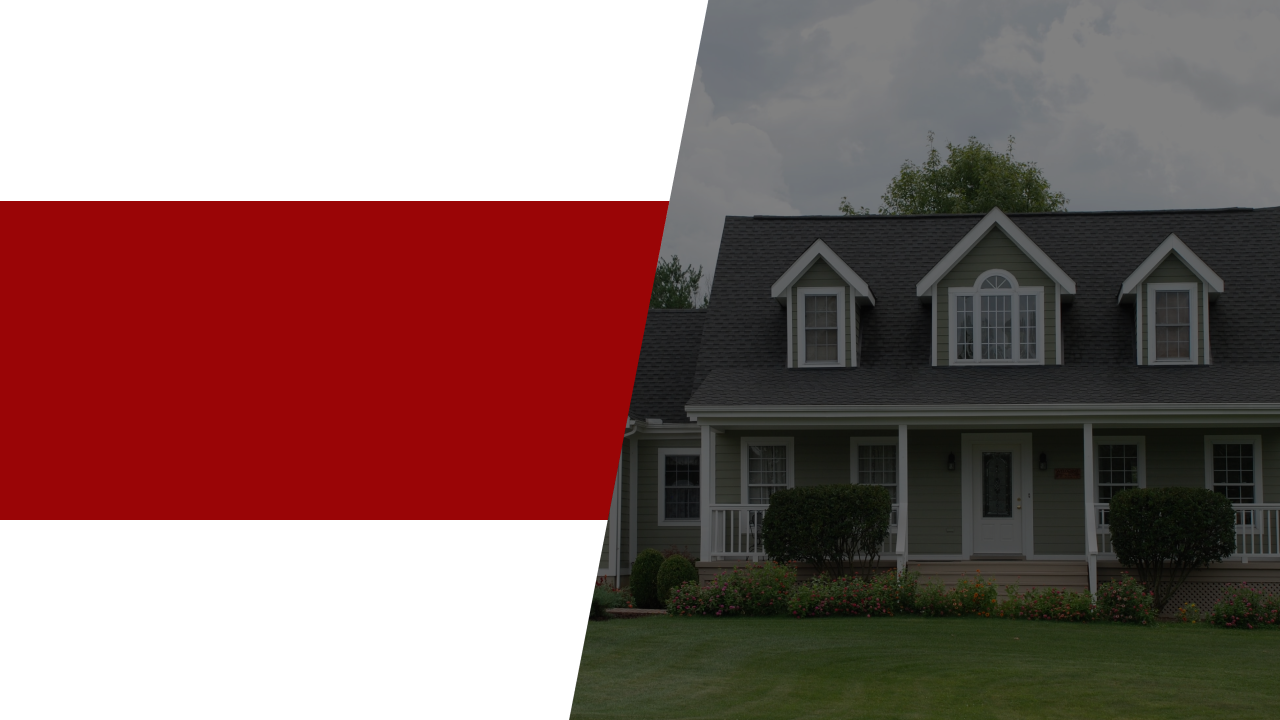
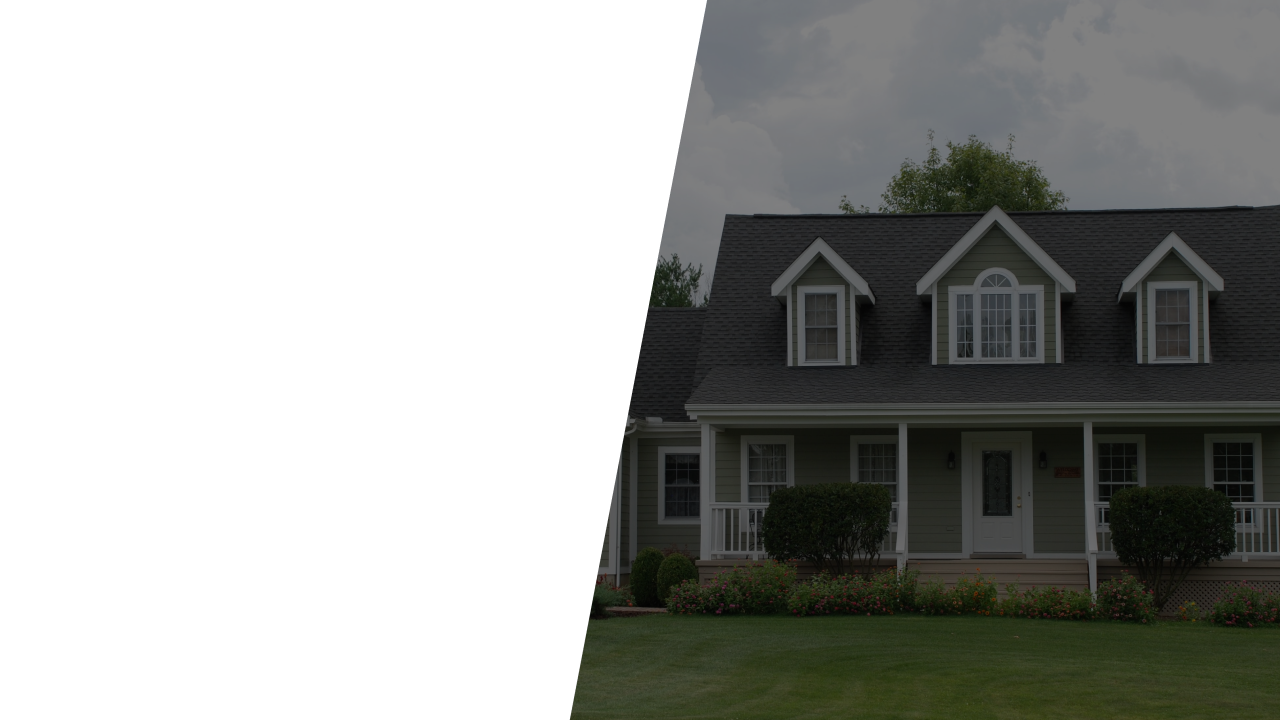
scroll fix, roofing section fix

diff --git a/frontend/src/pages/RoofingSection.jsx b/frontend/src/pages/RoofingSection.jsx
@@ -1,41 +1,71 @@
 import React from 'react'
 import styled from 'styled-components/macro'
-import RoofingBG from '../assets/roofing.png'
+import RoofingBG from '../assets/roofing1.png'
 import { motion } from 'framer-motion'
 
 const Container = styled.div`
-    min-height: 89vh;
+    min-height: 100vh;
     width: 100%;
-    background-image: url(${RoofingBG});
-    background-position: center;
-    background-repeat: no-repeat;
-    background-size: 100%;
 `
 
 const Wrapper = styled.div`
     display: flex;
+    align-items: center;
+    position: relative;
 `
 
 
-const LeftSection = styled.div`
-    flex: 7;
+const BgImage = styled(motion.img)`
+    width: 54.5%;
+    height: 90%;
+    position: absolute;
+    left: 0;
+    bottom: 0;
+
+`
+
+const RedBg = styled(motion.div)`
+    height: 50vh;
+    width: 55%;
+    background-color: var(--red);
+    position: absolute;
+    right: 0;
+    z-index: -5;
+
+    &:after {
+        content: " ";
+        position: absolute;
+        display: block;
+        width: 100%;
+        height: 100%;
+        top: 0;
+        left: 0;
+        z-index: -1;
+        background-color: var(--red);
+        transform-origin: bottom left;
+        -ms-transform: skew(15deg, 0deg);
+        -webkit-transform: skew(15deg, 0deg);
+        transform: skew(15deg, 0deg);
+    }
 `
 
 const RightSection = styled.div`
     flex: 6;
-    min-height: 89vh;
+    min-height: 100vh;
     display: flex;
+    justify-content: flex-end;
     align-items: center;
 `
   
 
 const RightWrapper = styled(motion.div)`
-    flex: 6;
     display: flex;
     flex-direction: column;
     justify-content: center;
-    gap: 10%;
-    height: 86.5%;
+    gap: 4.6rem;
+    width: 45%;
+    padding-right: 2%;
+
 `
 
 const TopSection = styled(motion.div)`
@@ -92,6 +122,37 @@ const ServiceItems = styled.li`
 const RoofingSection = () => {
 
     // VARIANTS
+    const ImageVariants = {
+        hidden: {
+            opacity: 0,
+            x: -300,
+        },
+
+        show: {
+            opacity: 1,
+            x: 0,
+            transition: { 
+                duration: 0.8,
+            }
+        }
+    }
+
+    const RedVariants = {
+        hidden: {
+            opacity: 0,
+            x:300,
+        },
+
+        show: {
+            opacity: 1,
+            x: 0,
+            transition: { 
+                delay: 0.5,
+                duration: 0.8,
+            }
+        }
+    }
+
     const TextContainerVariants = {
         hidden: {
             opacity: 0,
@@ -103,6 +164,7 @@ const RoofingSection = () => {
             x: 0,
             transition: { 
                 duration: 1,
+                delayChildren: 1,
                 staggerChildren: 0.4,
             }
         }
@@ -126,7 +188,19 @@ const RoofingSection = () => {
     return (
         <Container id='roofing'>
             <Wrapper> 
-                <LeftSection> </LeftSection>
+                <BgImage src={RoofingBG}
+                    variants= { ImageVariants }
+                    initial= 'hidden'
+                    whileInView="show"
+                    viewport={{ once: false, amount: .5 }}
+                />
+
+                <RedBg 
+                    variants= { RedVariants }
+                    initial= 'hidden'
+                    whileInView="show"
+                    viewport={{ once: false, amount: .5 }}>
+                </RedBg>
 
                 <RightSection>
                     <RightWrapper

diff --git a/frontend/src/components/Navbar.jsx b/frontend/src/components/Navbar.jsx
@@ -7,7 +7,9 @@ import { motion } from 'framer-motion'
 
 const Container = styled.div`
     width: 100%;
-    background-color: ${props => props.color === 1 ? "#fff" : "rbga(0, 0, 0, 0)"};
+    height: 10vh;
+    /* background-color: ${props => props.color === 1 ? "#fff" : "rbga(0, 0, 0, 0)"}; */
+    background-color: ${props => props.color === 1 ? "rgba(255, 255, 255, 0.5)" : "rbga(0, 0, 0, 0)"};
     position: fixed;
     z-index: 10;
     box-shadow: ${props => props.color === 1 ? "0rem 0.2rem 0.8rem #565656" : "none"};
@@ -144,7 +146,7 @@ const Navbar = () => {
                     >
                         <NavItems variants= { LinkVariants }>
                             <LinkContainer variants= { HoverVariants } whileHover="hover">
-                                <NavLink activeClass='active' to="about" spy={true} smooth={true} offset={-110} duration={500} color={color}>
+                                <NavLink activeClass='active' to="about" spy={true} smooth={true} offset={0} duration={500} color={color}>
                                     About
                                 </NavLink>
                             </LinkContainer>
@@ -152,7 +154,7 @@ const Navbar = () => {
 
                         <NavItems variants= { LinkVariants }>
                             <LinkContainer variants= { HoverVariants } whileHover="hover">
-                                <NavLink activeClass="active" to="roofing" spy={true} smooth={true} offset={-110} duration={500} color={color}>
+                                <NavLink activeClass="active" to="roofing" spy={true} smooth={true} offset={0} duration={500} color={color}>
                                     Roofing
                                 </NavLink>
                             </LinkContainer>
@@ -160,7 +162,7 @@ const Navbar = () => {
 
                         <NavItems variants= { LinkVariants }>
                             <LinkContainer variants= { HoverVariants } whileHover="hover">
-                                <NavLink activeClass="active" to="siding" spy={true} smooth={true} offset={-109} duration={500} color={color}>
+                                <NavLink activeClass="active" to="siding" spy={true} smooth={true} offset={0} duration={500} color={color}>
                                     Siding
                                 </NavLink>
                             </LinkContainer>
@@ -168,7 +170,7 @@ const Navbar = () => {
 
                         <NavItems variants= { LinkVariants }>
                             <LinkContainer variants= { HoverVariants } whileHover="hover">
-                                <NavLink activeClass="active" to="contact" spy={true} smooth={true} offset={-109} duration={500} color={color}>
+                                <NavLink activeClass="active" to="contact" spy={true} smooth={true} offset={0} duration={500} color={color}>
                                     Contact
                                 </NavLink>
                             </LinkContainer>

diff --git a/frontend/src/pages/SidingSection.jsx b/frontend/src/pages/SidingSection.jsx
@@ -4,7 +4,7 @@ import SidingBG from '../assets/siding.png'
 import { motion } from 'framer-motion'
 
 const Container = styled.div`
-    min-height: 89.1vh;
+    min-height: 100vh;
     width: 100%;
     background-image: url(${SidingBG});
     background-position: center;
@@ -51,14 +51,14 @@ const SectionContainer = styled.div`
 
 const Title = styled.span`
     font-size: 3.5rem;
-    color: #fff;
+    color: #000;
     font-weight: bold;
 `
 
 const Text = styled.p`
     font-size: 1.8rem;
     line-height: 3.5rem;
-    color: #fff;
+    color: #000;
 `
 
 const BottomSection = styled(motion.div)`

diff --git a/frontend/src/pages/AboutSection.jsx b/frontend/src/pages/AboutSection.jsx
@@ -7,7 +7,7 @@ import Img3 from '../assets/img3.png'
 import { motion } from 'framer-motion'
 
 const Container = styled.div`
-    min-height: 89vh;
+    min-height: 100vh;
     width: 100%;
     display: flex;
     flex-direction: column;

diff --git a/frontend/src/pages/ContactSection.jsx b/frontend/src/pages/ContactSection.jsx
@@ -4,7 +4,7 @@ import SuccessModal from '../components/SuccessModal'
 import { motion } from 'framer-motion'
 
 const Container = styled.div`
-    min-height: 89vh;
+    min-height: 100vh;
     width: 100%;
 `
 
